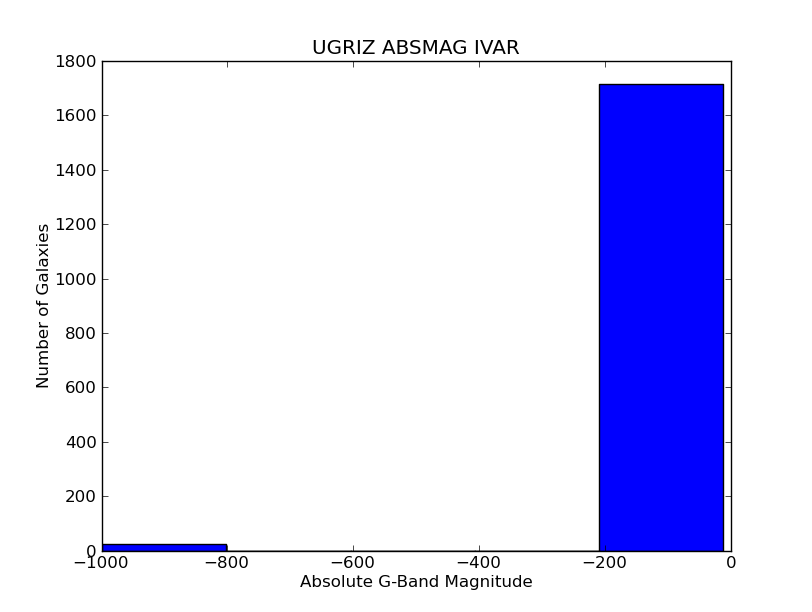
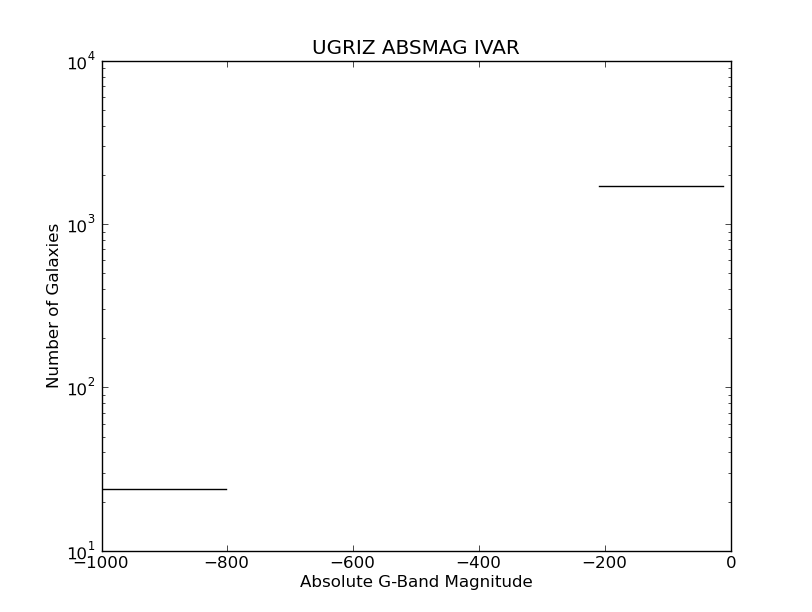
UGRIZ

diff --git a/python/bg_test.py b/python/bg_test.py
@@ -32,7 +32,8 @@ class ediscs:
         hist(self.kdat.UGRIZ_ABSMAG_00[:,1],bins=5)
         title ('UGRIZ ABSMAG IVAR ')
         
-        
+        ax=gca()
+        ax.set_yscale('log')
         ylabel('Number of Galaxies')
         xlabel('Absolute G-Band Magnitude')
 edi=ediscs()
